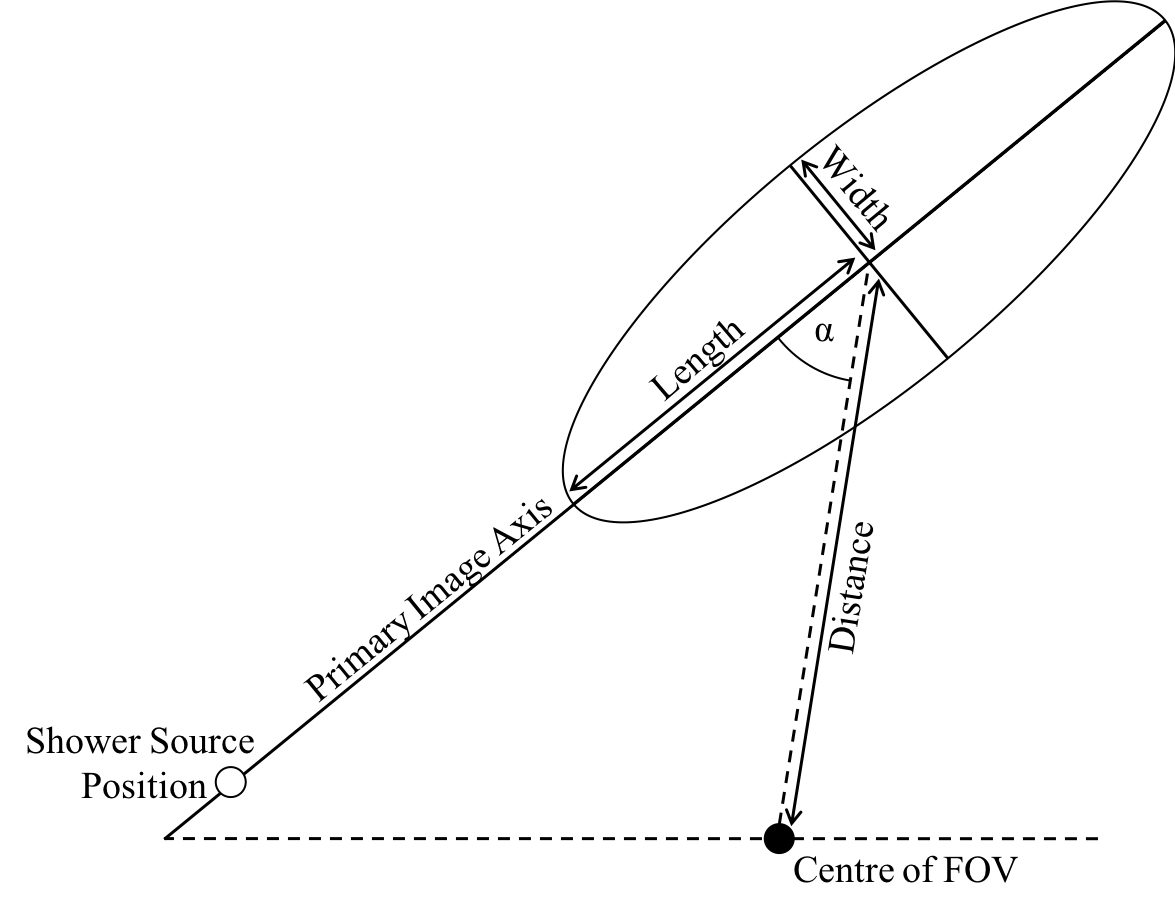
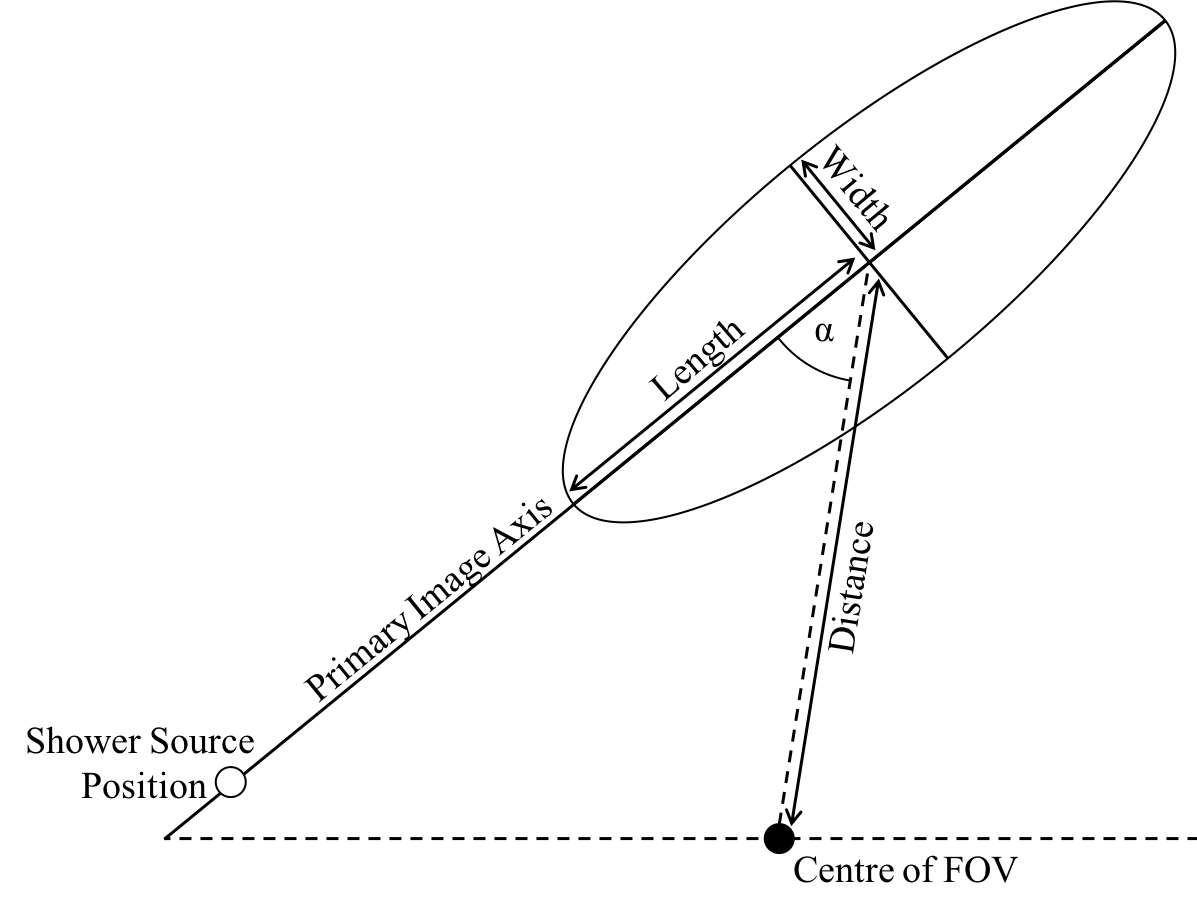
Update on Overleaf.

diff --git a/text/ch6-reduction.tex b/text/ch6-reduction.tex
@@ -117,13 +117,52 @@ The assessment technique typically used for charge extractors in the context of 
 \begin{figure}
 	\centering
     \includegraphics[width=\textwidth]{hillas} 
-	\caption[Hillas Parametrisation Schematic.]{Schematic of the \textit{Hillas Parametrisation} of the .}
+	\caption[Hillas Parametrisation Schematic.]{Schematic of the \textit{Hillas Parameters} used to describe the Cherenkov shower image ellipse.}
 	\label{fig:hillas}
 \end{figure}
 
-The resulting images of the extracted signal per triggered telescope is only the first stage of many to retrieve the properties of the Cherenkov-shower progenitor particle: direction, energy, and class. The direction is necessary to retrieve in order to obtain the source's position and spatial morphology. The energy is desired for studies of the source's spectrum. The class of the progenitor particle (gamma-ray, electron, or cosmic-ray hadron) is required in order to identify the gamma-rays among the cosmic-ray background. All the information required to obtain these progenitor particle properties is contained within the image of extracted charge.
+\begin{figure}
+	\centering
+    %\includegraphics[width=\textwidth]{hillas2} 
+	\caption[Second Hillas Parametrisation Schematic.]{A useful depiction of the light produced by air showers, and the different image ellipse produced depending on shower direction with respect to the telescope pointing direction \cite{Lessard2001}. \change[inline]{possibly don't need this figure, or move to introduction. Could recreate own version of it}}
+	\label{fig:hillas2}
+\end{figure}
 
-Pixels containing signal from the Cherenkov shower are identified by an image cleaning method such as the tailcuts approach: any pixels above a certain signal threshold are kept, and any neighbouring pixels that are above a lower signal threshold are also kept. The thresholds are optimised per telescope using Monte Carlo simulations. The resulting pixels are then parametrised in terms of their second moments. This parametrisation is a predominant \gls{iact} analysis technique that has been utilised in the majority of \gls{iact} experiments. It was first formalised by \textcite{Hillas1985a} and has subsequently been known as the \textit{Hillas Parametrisation}. This technique exploits the elliptical shape of the gamma-induced shower images, and provides values for the centre of gravity of the ellipse, its primary axis position and orientation, its width, and its length (Figure~\change{hillas parameterisation figure}. The \pkg{ctapipe} implementation of the \textit{Hillas Parametrisation} is defined by \textcite{Reynolds1993}.
+\begin{figure}
+\begin{minipage}[t]{.49\textwidth}
+  \centering
+  \includegraphics[width=0.92\textwidth]{source_location} 
+  \captionof{figure}[Shower source location reconstruction.]{Reconstruction of the source location on the sky for the shower, achieved by superimposing the different views of the showers from different telescopes.}
+  \label{fig:source_location}
+\end{minipage}%
+\hfill
+\begin{minipage}[t]{.49\textwidth}
+  \centering
+  \includegraphics[width=\textwidth]{core_location}
+  \captionof{figure}[Shower core location reconstruction.]{Reconstruction of the location of the shower core on the ground, achieved by combining the primary image axes at the relative telescope separations.}
+  \label{fig:core_location}
+\end{minipage}
+\end{figure}
+
+The resulting images of the extracted signal per triggered telescope is only the first stage of many to retrieve the properties of the Cherenkov-shower progenitor particle: direction, energy, and class. The direction is necessary to retrieve in order to obtain the source's position and spatial morphology. The energy is desired for studies of the source's spectrum. The class of the progenitor particle (gamma-ray, electron, or cosmic-ray hadron) is required in order to identify the gamma-rays among the cosmic-ray background. All the information required to obtain these progenitor particle properties is contained within the image of extracted charge. As the focus of this thesis is on the low-level performance of the \gls{gct} cameras, this section will only include a brief overview of the simplest methods used in shower reconstruction. This information is supplied as context for the results described in \ref{ch8-pipeline}.
+
+\subsection{Image Parametrisation}
+
+Pixels containing signal from the Cherenkov shower are identified by an image cleaning method such as the tailcuts approach: any pixels above a certain signal threshold are kept, and any neighbouring pixels that are above a lower signal threshold are also kept. The thresholds are optimised per telescope using Monte Carlo simulations. The resulting pixels are then parametrised in terms of their second moments. This parametrisation is a predominant \gls{iact} analysis technique that has been utilised in the majority of \gls{iact} experiments. It was first formalised by \textcite{Hillas1985a} and has subsequently been known as the \textit{Hillas Parametrisation}. This technique exploits the elliptical shape of the gamma-induced shower images, and provides values for the centre of gravity of the ellipse, its primary axis position and orientation, its width, and its length (Figures~\ref{fig:hillas}~and~\ref{fig:hillas2}). The \pkg{ctapipe} implementation of the \textit{Hillas Parametrisation} is defined by \textcite{Reynolds1993}.
+
+\subsection{Direction Reconstruction}
+
+Through utilising the primary image axis that results from the \textit{Hillas Parametrisation}, the positional information about the shower can be obtained \cite{Daum1997,Cogan2006,Dickinson2010}. By superimposing the ellipses from different telescopes onto a single image (Figure~\ref{source_location}), the stereoscopic combination allows for the source position of the shower to be retrieved with simple geometry. This is used to retrieve a gamma-ray's astrophysical-source position on the sky \change{perhaps refer to where it is explained that the two are the same, from introduction...}. If, instead, the primary image axes are combined with the relative positional view of the telescopes (Figure~\ref{fig:core_location}, the core location of the shower in terms of ground coordinates may be obtained. For obtaining the intersections of the axes in both applications, the weighted-mean-direction of the intersections is typically calculated \cite{Eschbach2016,Bernlohr2013a}. While the extraction of the directional information is much more reliable through the use of the stereoscopic combination of the images, it is not impossible to estimate the direction of the source when only a single telescope is available. The primary challenge when performing this operation with a single telescope is the degeneracy in determining which direction along the primary image axis the source exists in. This is overcome with the \textit{disp} method developed by \textcite{Lessard2001}.
+
+\subsection{Energy Reconstruction}
+
+As aptly described by \textcite[][p.~16]{Dickinson2010}, ``determining of the energy of the progenitor of a particular air shower relies on a form of electromagnetic calorimetry''. Once the distance from the telescopes to the shower is known (from the core position), it can be coupled with the \textit{image size} (the total amount of integrated signal obtained from the Cherenkov shower) to obtain total energy released as Cherenkov light \cite{Cogan2006,Bernlohr2013a}. This is a direct measure of the energy of the shower progenitor particle (Section~\change{section in introduction where it is shown that the majority of energy of the gamma-ray is release as cherenkov light}).
+
+\subsection{$\gamma$-Hadron Discrimination}
+
+The differences between the image morphology of gamma and cosmic-ray showers is described in \ref{ch1-intro}\change{describe differences in images in intro, and show perfect examples with MC of CHECS. Lessard gives precise information about the differences}. The differences are quantified and encapsulated by the \textit{Hillas Parameters}...
+
+in obtaining the location of the source with a single telescope is a difficult problem to overcome, it is not an impossible one.
 
 Using a two-pass selection cut on the images
 
